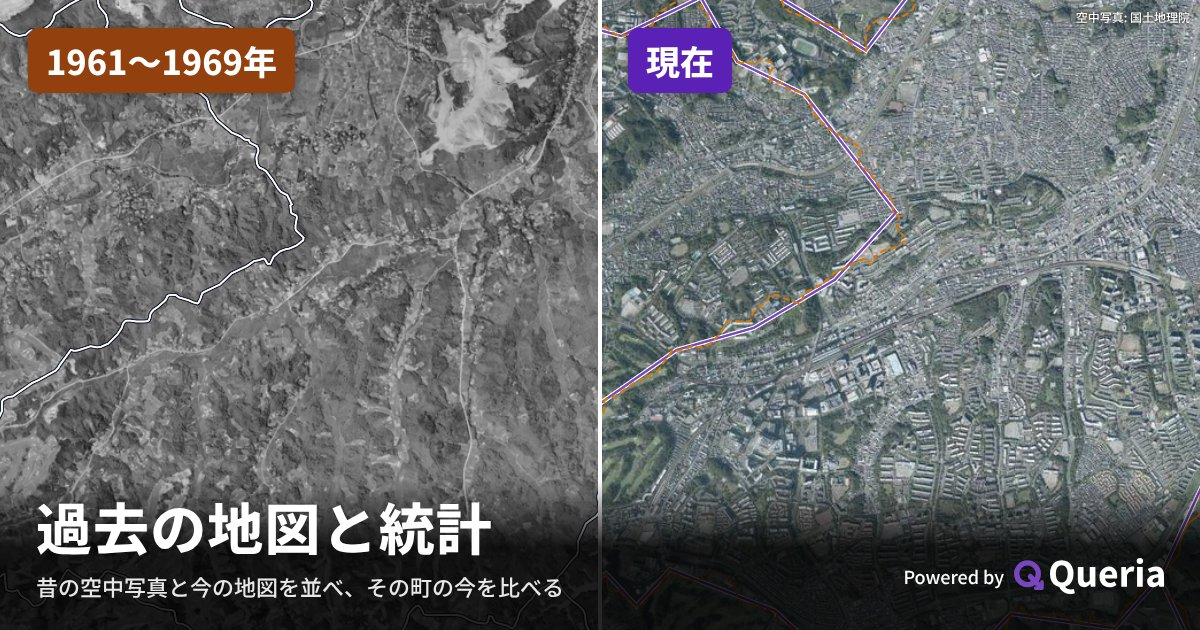
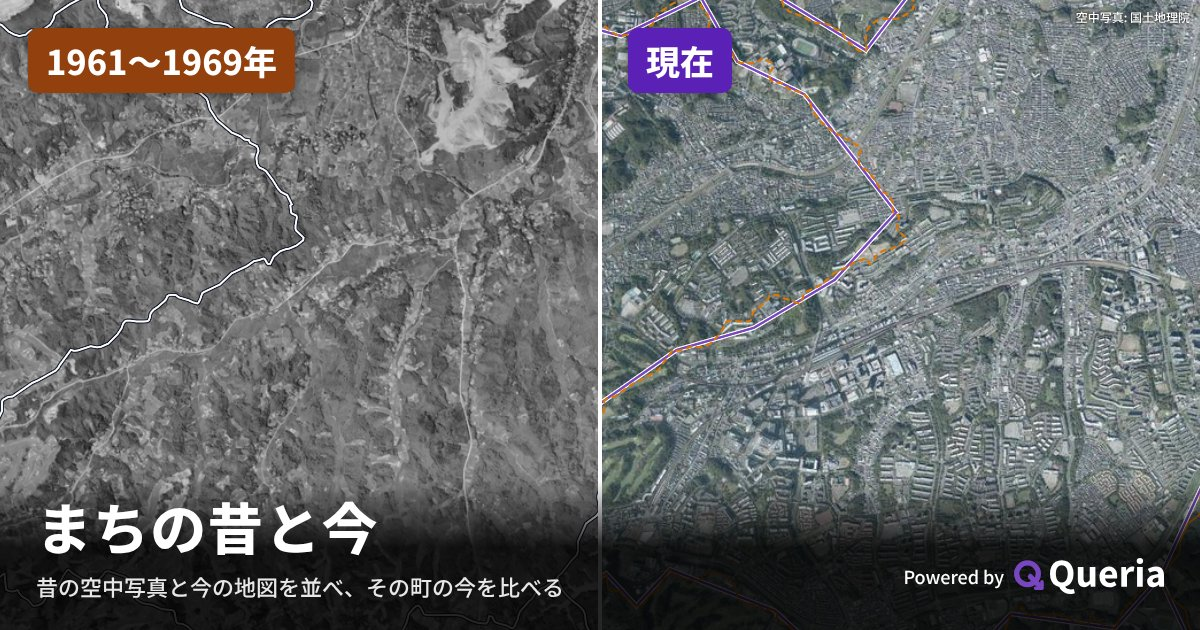
feat: サービス名を「まちの昔と今」にする

Changed region(s): [[0.1542, 0.7841, 0.4317, 0.9048], [0.0308, 0.7841, 0.1233, 0.9048]]

diff --git a/index.html b/index.html
@@ -3,11 +3,11 @@
   <head>
     <meta charset="utf-8" />
     <meta name="viewport" content="width=device-width, initial-scale=1" />
-    <title>過去の地図と統計 | Queria</title>
+    <title>まちの昔と今 | Queria</title>
     <meta name="description" content="1945〜1990年の空中写真と当時の市町村の境界を今の地図と並べ、その町が今どうなったかを人口ピラミッドや年齢構成で比べられます。" />
     <meta property="og:type" content="website" />
     <meta property="og:site_name" content="Queria" />
-    <meta property="og:title" content="過去の地図と統計" />
+    <meta property="og:title" content="まちの昔と今" />
     <meta property="og:description" content="1945〜1990年の空中写真と当時の市町村の境界を今の地図と並べ、その町が今どうなったかを人口ピラミッドや年齢構成で比べられます。" />
     <meta property="og:url" content="https://historical-map.queria.io/" />
     <meta property="og:image" content="https://historical-map.queria.io/og.jpg" />
@@ -17,7 +17,7 @@
   </head>
   <body>
     <nav id="controls">
-      <h1>過去の地図と統計</h1>
+      <h1>まちの昔と今</h1>
       <div class="search">
         <input id="q" type="search" placeholder="地名・住所で検索（例: 田無町）" autocomplete="off" />
         <ul id="hits" hidden></ul>

diff --git a/src/panel.ts b/src/panel.ts
@@ -110,7 +110,7 @@ const chainBlock = (before: Before[], steps: Step[]) => {
 
 /** X での共有とリンクのコピー。URL には年代・位置・選んだ市町村が入る */
 const xIntent = (text: string) =>
-  `https://x.com/intent/post?${new URLSearchParams({ text, url: location.href, hashtags: "過去の地図と統計" })}`;
+  `https://x.com/intent/post?${new URLSearchParams({ text, url: location.href, hashtags: "まちの昔と今" })}`;
 const shareBar = (text: string) => `<div class="share">
     <a class="x" href="${esc(xIntent(text))}" data-text="${esc(text)}" target="_blank" rel="noopener">X でシェア</a>
     <button class="copy" type="button">リンクをコピー</button></div>`;

diff --git a/README.md b/README.md
@@ -1,4 +1,4 @@
-# 過去の地図と統計（historical-map.queria.io）
+# まちの昔と今（historical-map.queria.io）
 
 国土地理院の年代別空中写真（1945〜1990 年）に当時の市町村の境界を重ね、クリックした市町村の統計を表示する地図です。左に当時の写真、右に今の地理院地図を並べ、2 つの地図の位置を連動させます。右の地図には今の市区町村の境界と当時の境界を重ね、合併などで境界がどう変わったかを見比べられます（1 画面にも切り替えられます）。データは Queria の公開データセットから作ります。
 
